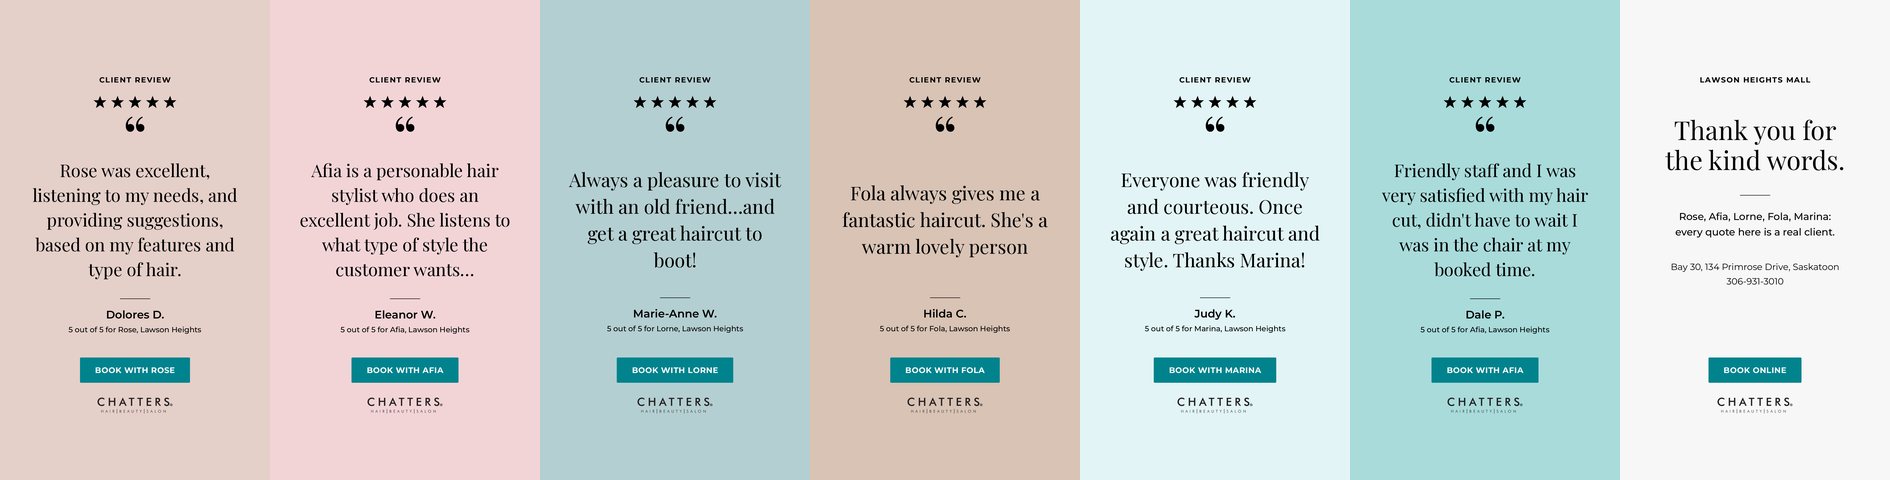
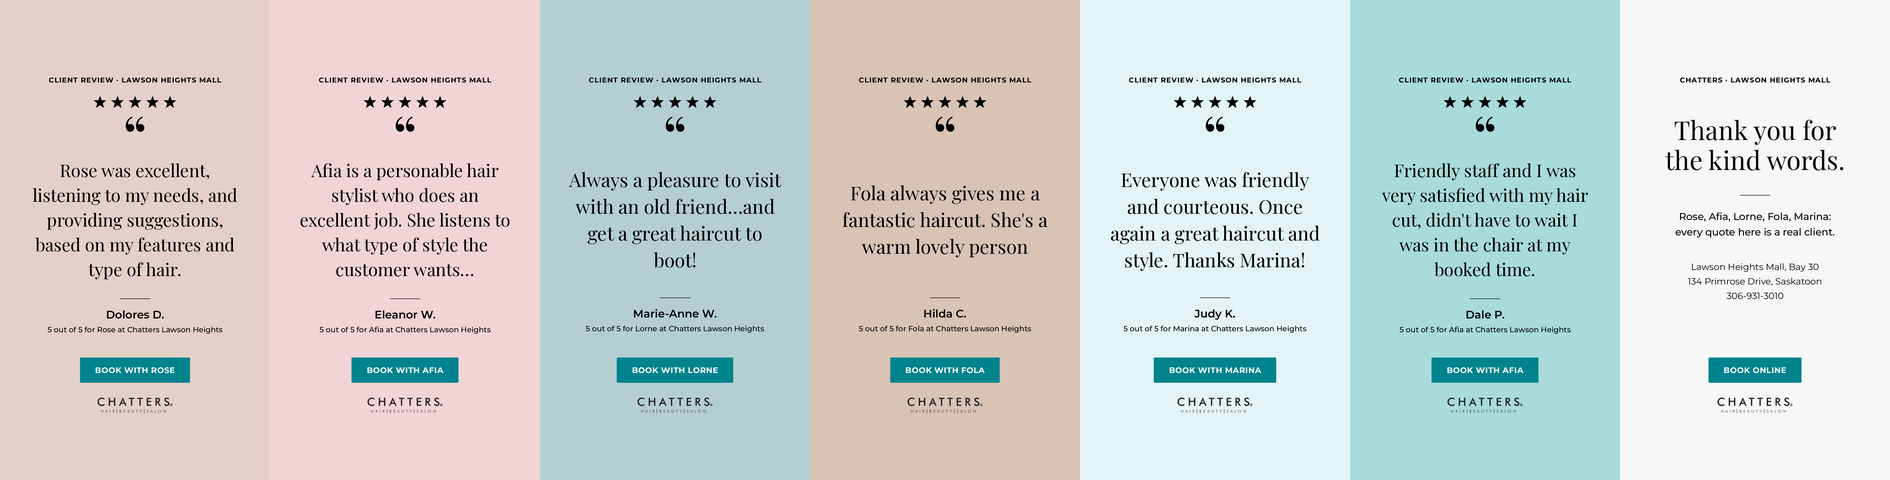
Review stories: name Lawson Heights Mall on every frame
Claude-Session: https://claude.ai/code/session_012Bxxorn8dPJXCDPPrtW2Np

diff --git a/Chatters_Posts/review_stories_nov_2026/build.py b/Chatters_Posts/review_stories_nov_2026/build.py
@@ -77,14 +77,14 @@ def quote_block(d, text, top, bottom):
 def review_story(stylist, who, text, tint):
     img = Image.new("RGB", (W, H), tint)
     d = ImageDraw.Draw(img)
-    ctext(d, 330, "CLIENT REVIEW", E.F(30, "Bold"), ls=3)
+    ctext(d, 330, "CLIENT REVIEW · LAWSON HEIGHTS MALL", E.F(28, "Bold"), ls=2)
     stars(d, 410)
     d.text((W // 2, 640), "“", font=E.serif(240), fill=E.INK, anchor="ms")
     last = quote_block(d, text, 640, 1140)
     y = max(last + 90, 1190)
     d.line((W // 2 - 60, y, W // 2 + 60, y), fill=E.INK, width=2)
     ctext(d, y + 80, who, E.F(44, "SemiBold"))
-    ctext(d, y + 135, f"5 out of 5 for {stylist}, Lawson Heights", E.F(30, "Medium"))
+    ctext(d, y + 135, f"5 out of 5 for {stylist} at Chatters Lawson Heights", E.F(30, "Medium"))
     button(d, 1430, f"BOOK WITH {stylist.upper()}")
     logo(img, 1590)
     return img
@@ -93,13 +93,13 @@ def review_story(stylist, who, text, tint):
 def cta_story():
     img = Image.new("RGB", (W, H), E.GROUND)
     d = ImageDraw.Draw(img)
-    ctext(d, 330, "LAWSON HEIGHTS MALL", E.F(30, "Bold"), ls=3)
+    ctext(d, 330, "CHATTERS · LAWSON HEIGHTS MALL", E.F(28, "Bold"), ls=2)
     for i, ln in enumerate(["Thank you for", "the kind words."]):
         d.text((W // 2, 560 + i * 120), ln, font=E.serif(104), fill=E.INK, anchor="ms")
     d.line((W // 2 - 60, 780, W // 2 + 60, 780), fill=E.INK, width=2)
     for i, ln in enumerate(["Rose, Afia, Lorne, Fola, Marina:", "every quote here is a real client."]):
         ctext(d, 880 + i * 62, ln, E.F(40, "Medium"))
-    for i, ln in enumerate(["Bay 30, 134 Primrose Drive, Saskatoon", "306-931-3010"]):
+    for i, ln in enumerate(["Lawson Heights Mall, Bay 30", "134 Primrose Drive, Saskatoon", "306-931-3010"]):
         ctext(d, 1080 + i * 58, ln, E.F(36, "Regular"))
     button(d, 1430, "BOOK ONLINE")
     logo(img, 1590)
